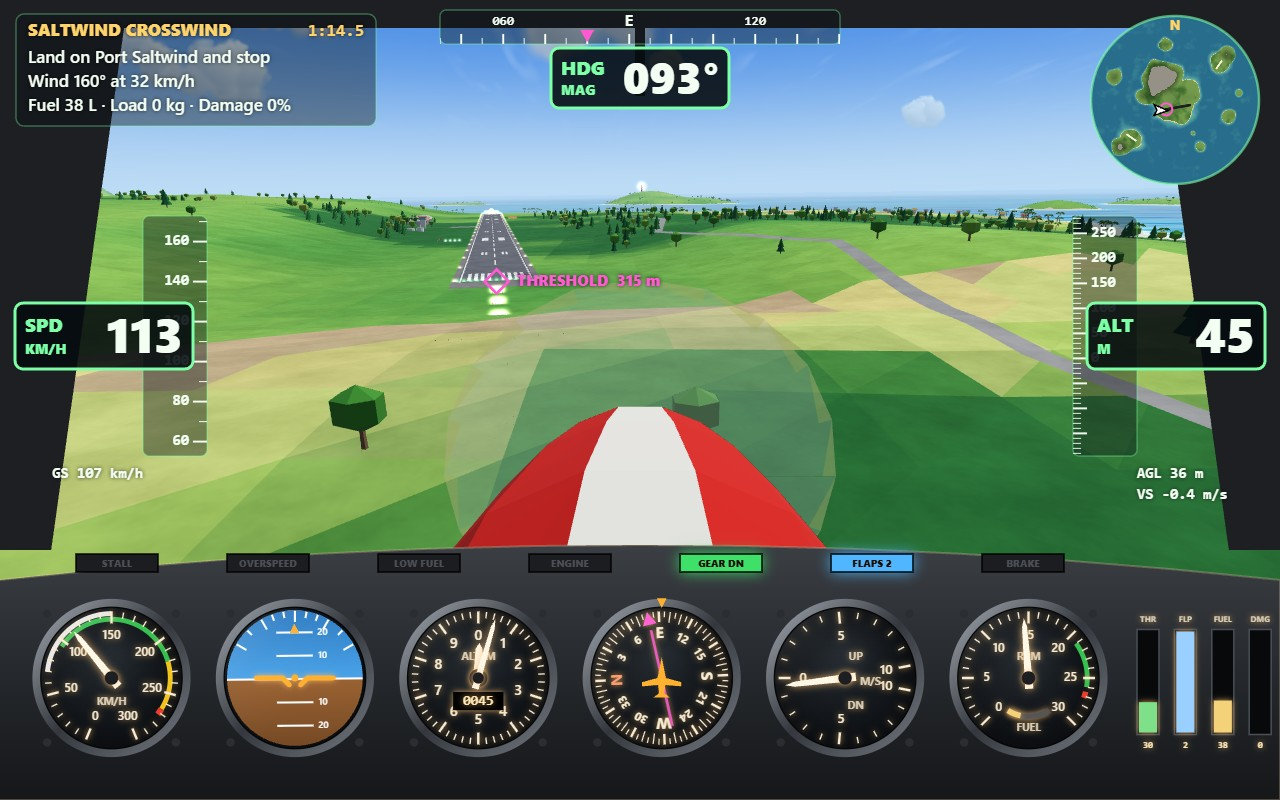
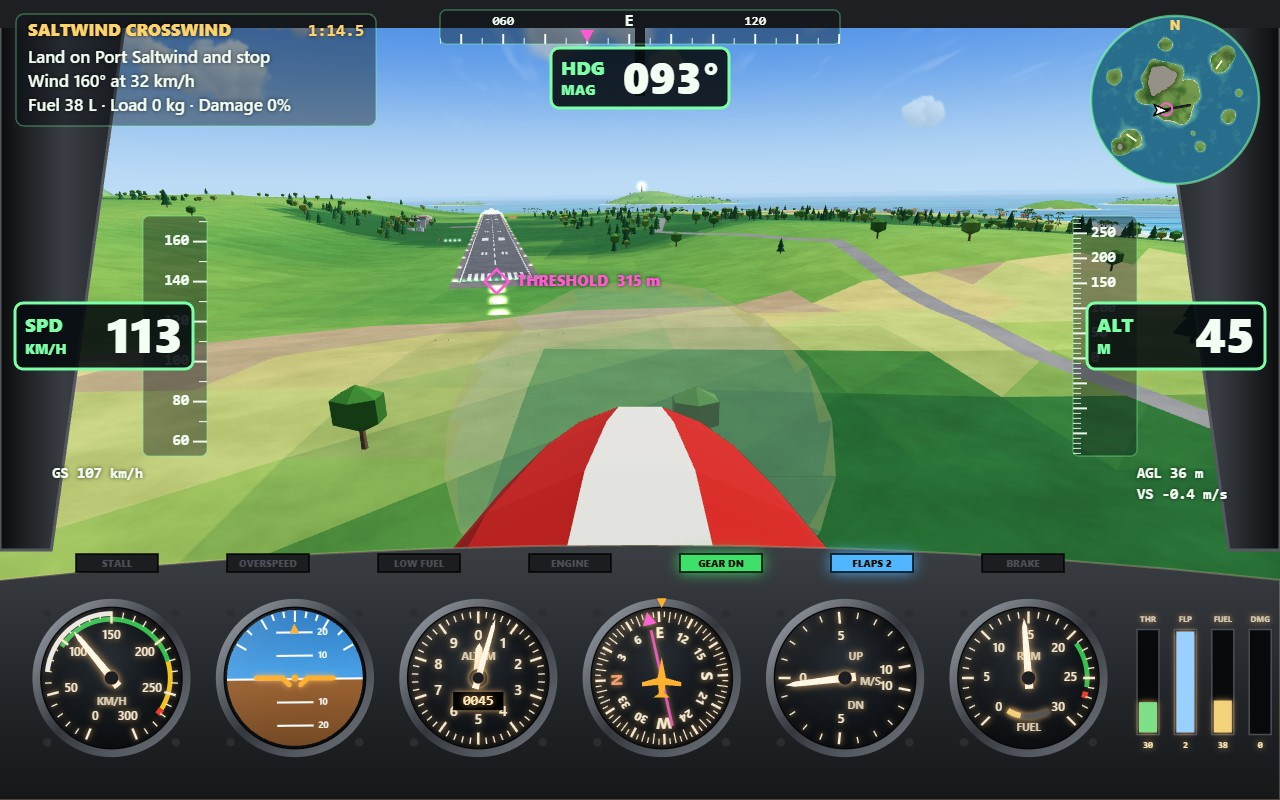
Cover banks harder into the approach; screenshots refreshed with the shaded pillars

diff --git a/game/src/shots.js b/game/src/shots.js
@@ -42,7 +42,7 @@ export function stageShot(name, { game, camera, world, simulate, startMissionAt 
 		Object.assign(camera, { lookYaw: 0.3, offset: null }).follow(ac(), FRAME, { looking: true, lookDx: 0, lookDy: 0 }, world.terrain.heightAt);
 	} else {
 		const geo = start('approach').geo, p = glidePathPoint(geo, 720, 300);
-		place([p[0] - geo.dir[2] * 6, p[1] + 8, p[2] + geo.dir[0] * 6], geo.heading - 3, -1, -12, 40, { throttle: 0.4 });
+		place([p[0] - geo.dir[2] * 6, p[1] + 8, p[2] + geo.dir[0] * 6], geo.heading - 3, -1, -20, 40, { throttle: 0.4 });
 		game.run.time = 43;
 		fly(0.6, { pitch: 0.04, roll: 0, yaw: 0 });
 	}
